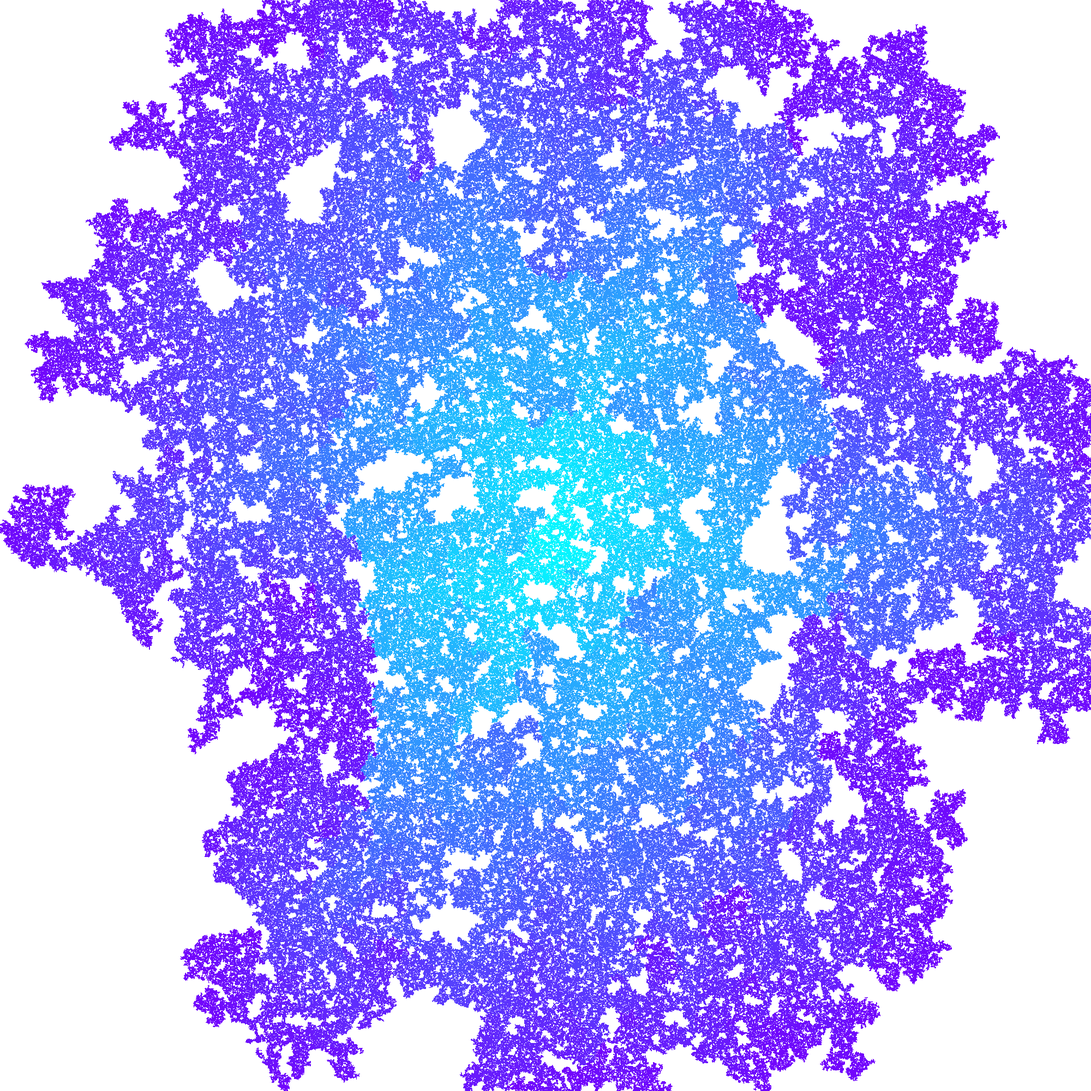
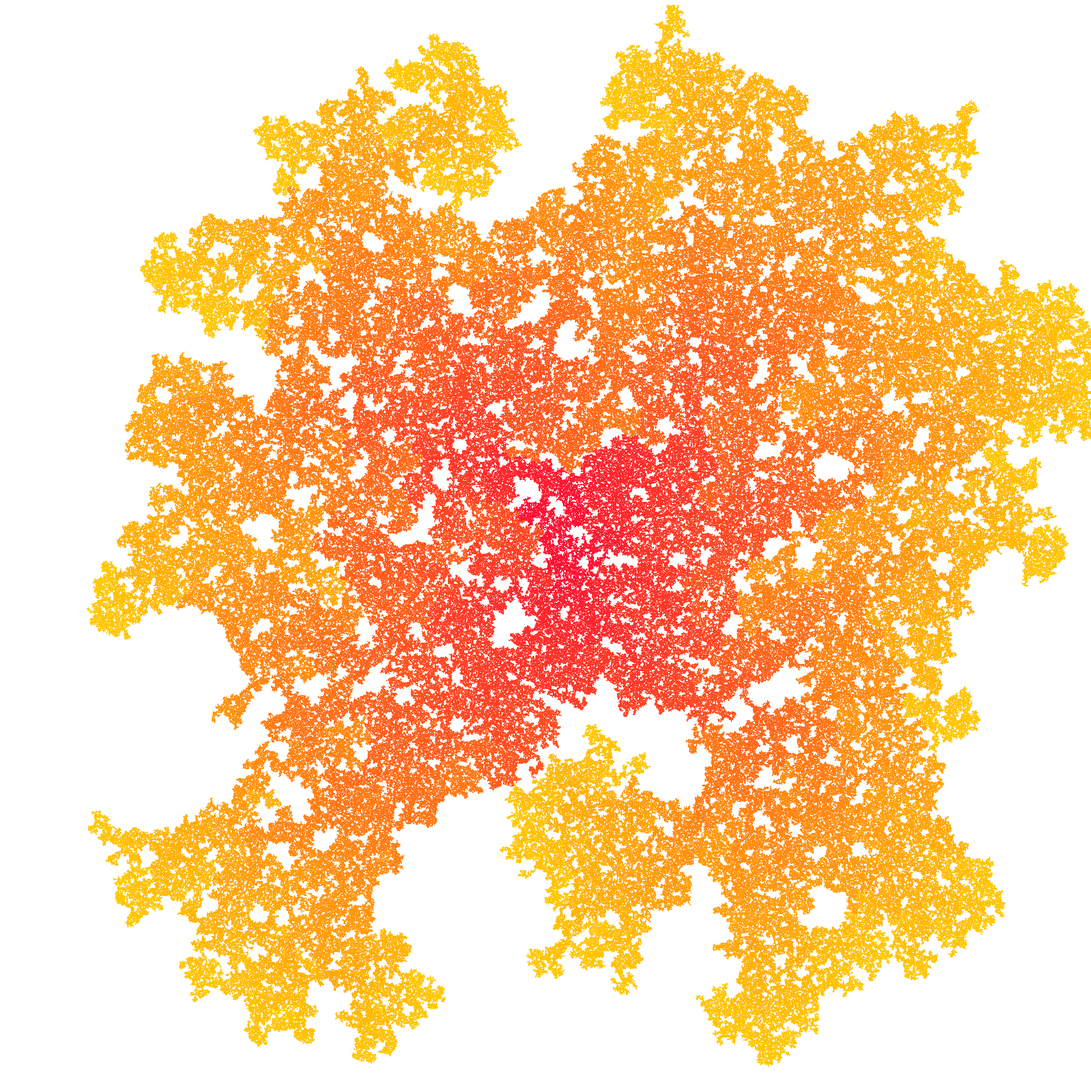
Add GIF rendering option
- Reduce gallery
- Add intro GIF in README instead of a boring image
- Set new default colors

diff --git a/src/renderer.py b/src/renderer.py
@@ -45,6 +45,10 @@ def arg_parse() -> Namespace:
     group_video.add_argument('-pv', '--path-video', metavar='PATH', type=str, help=HELP_PATH_VIDEO)
     group_video.add_argument('-vs', '--video-size', metavar='INT', type=int, default=8, help=HELP_VIDEO_SIZE)
 
+    gif_video = parser.add_argument_group('GIF options')
+    gif_video.add_argument('-sg', '--save-gif', action='store_true', help=HELP_SAVE_GIF)
+    gif_video.add_argument('-pg', '--path-gif', metavar='PATH', type=str, help=HELP_PATH_GIF)
+
     return parser.parse_args()
 
 
@@ -120,12 +124,18 @@ def render(args: Namespace) -> None:
         video_path = out_path(args.path_video, out_name, '.mp4').as_posix()
     else:
         video_path = out_path(OUTPUT_FILES_PATH, out_name, '.mp4').as_posix()
+    if args.path_gif:
+        gif_path = out_path(args.path_gif, out_name, '.gif')
+    else:
+        gif_path = out_path(OUTPUT_FILES_PATH, out_name, '.gif')
 
     if args.save_video:
         fourcc = cv2.VideoWriter_fourcc(*'avc1')
         video = cv2.VideoWriter(TEMP_VIDEO_PATH, fourcc, 60, size[::-1])
 
     frame = np.full((size.y, size.x, 4), np.array(color_bg), dtype=np.uint8)
+    if args.save_gif:
+        frames = [frame.copy()]
 
     for i, generation in enumerate(nebula.generations, start=1):
         if len(gradient) == 1:
@@ -145,6 +155,8 @@ def render(args: Namespace) -> None:
 
         if args.save_video:
             video.write(cv2.cvtColor(frame, cv2.COLOR_RGBA2BGRA))
+        if args.save_gif:
+            frames.append(frame.copy())
 
     image = Image.fromarray(frame, mode='RGBA')
 
@@ -157,6 +169,9 @@ def render(args: Namespace) -> None:
         video.release()
         compress_video(TEMP_VIDEO_PATH, video_path, args.video_size)
         Path.unlink(TEMP_VIDEO_PATH)
+    if args.save_gif:
+        images = [Image.fromarray(frame) for frame in frames]
+        images[0].save(gif_path, 'GIF', save_all=True, append_images=images[1:], duration=40, loop=0)
 
 
 def import_config() -> tuple[list[Color], Color, list[Vector]]:

diff --git a/src/constants.py b/src/constants.py
@@ -31,8 +31,14 @@ HELP_SAVE_VIDEO = 'The rendered video will be saved.'
 HELP_PATH_VIDEO = 'The path where the video will be saved. Default path: output/'
 HELP_VIDEO_SIZE = 'The size of the video in MB to which the size of the original video will be reduced using compression.'
 
+# GIF options
+HELP_SAVE_GIF = 'The rendered GIF will be saved.'
+HELP_PATH_GIF ='The path where the GIF will be saved. Default path: output/'
+
+
 # Formats
 TIME_FORMAT = '%H:%M:%S:%f'
+
 
 # Program paths
 CONFIG_PATH = Path('configs/config.json')

diff --git a/README.md b/README.md
@@ -2,7 +2,7 @@
 
 The program for visualizing a probabilistic cellular automata
 
-![intro_image](docs/README/intro.png)
+![intro_gif](docs/README/intro.gif)
 
 ## Table of contents
 
@@ -104,6 +104,3 @@ Copyright (c) 2022 Artyom Bezmenov
 ![gallery_image_2](docs/README/2.png)
 ![gallery_image_3](docs/README/3.png)
 ![gallery_image_4](docs/README/4.png)
-![gallery_image_5](docs/README/5.png)
-![gallery_image_6](docs/README/6.png)
-![gallery_image_7](docs/README/7.png)
